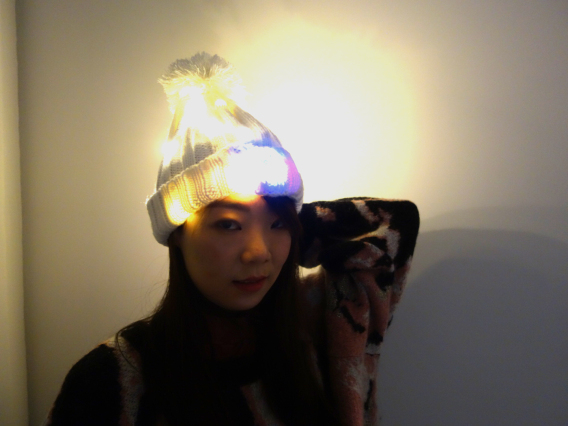
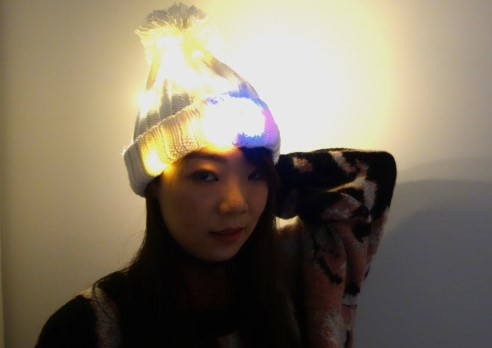
Added half of the project pages

diff --git a/src/assets/style2.css b/src/assets/style2.css
@@ -23,7 +23,7 @@
   left: 0;
   width: 100%;
   height: 100%;
-  background-color: rgba(128, 128, 128, 0.35);
+  background-color: rgba(100, 100, 100, 0.45);
 }
 
 img.img_medium {
@@ -185,64 +185,6 @@ h2 {
   position: absolute;
   z-index: 2;
   bottom: 3em;
-}
-
-/*------------Loader------------*/
-.loader-wrapper {
-  width: 100%;
-  height: 100%;
-  position: absolute;
-  top: 0;
-  left: 0;
-  background-color: black;
-  display: flex;
-  justify-content: center;
-  align-items: center;
-}
-#loader {
-  /* Uncomment this to make it run! */
-
-  /*      animation: loader 5s linear infinite;  */
-
-  position: absolute;
-  top: calc(50% - 20px);
-  left: calc(50% - 20px);
-}
-@keyframes loader {
-  0% {
-    left: -100px;
-  }
-  100% {
-    left: 110%;
-  }
-}
-#box {
-  width: 50px;
-  height: 50px;
-  background: #fff;
-  animation: animate 0.5s linear infinite;
-  position: absolute;
-  top: 0;
-  left: 0;
-  border-radius: 3px;
-}
-@keyframes animate {
-  17% {
-    border-bottom-right-radius: 3px;
-  }
-  25% {
-    transform: translateY(9px) rotate(22.5deg);
-  }
-  50% {
-    transform: translateY(18px) scale(1, 0.9) rotate(45deg);
-    border-bottom-right-radius: 40px;
-  }
-  75% {
-    transform: translateY(9px) rotate(67.5deg);
-  }
-  100% {
-    transform: translateY(0) rotate(90deg);
-  }
 }
 
 /*------------For mobile phones------------*/

diff --git a/src/App.js b/src/App.js
@@ -7,6 +7,13 @@ import Landing from "./components/landing";
 import Portfolio from "./components/portfolio";
 import About from "./components/about";
 import Rabbot from "./components/rabbot";
+import Vpia from "./components/vpia";
+import Dreamworld from "./components/dreamworld";
+import Maidenpink from "./components/maidenpink";
+import Thehats from "./components/thehats";
+import Sleepers from "./components/sleepers";
+import Moongaze from "./components/moongaze";
+import Lovemeloveyou from "./components/lovemeloveyou";
 import { AnimatePresence } from "framer-motion";
 import { Route, Switch, useLocation } from "react-router-dom";
 
@@ -19,6 +26,13 @@ function App() {
         <Route path="/portfolio" component={Portfolio} />
         <Route path="/about" component={About} />
         <Route path="/rabbot" component={Rabbot} />
+        <Route path="/vpia" component={Vpia} />
+        <Route path="/dreamworld" component={Dreamworld} />
+        <Route path="/maidenpink" component={Maidenpink} />
+        <Route path="/thehats" component={Thehats} />
+        <Route path="/sleepers" component={Sleepers} />
+        <Route path="/moongaze" component={Moongaze} />
+        <Route path="/lovemeloveyou" component={Lovemeloveyou} />
       </Switch>
     </AnimatePresence>
   );

diff --git a/src/components/dreamworld.js b/src/components/dreamworld.js
@@ -1,0 +1,39 @@
+import React from "react";
+import ProjectInfo from "./projectInfo";
+import Nav from "./nav";
+import ScrollToTop from "./scrollToTop";
+import data from "../assets/projectsData.json";
+import { motion } from "framer-motion";
+
+class Dreamworld extends React.Component {
+  render() {
+    return (
+      <motion.div initial="initial" animate="animate" exit={{ opacity: 0 }}>
+        <Nav displayLogo={true} />
+        <div className="img-container">
+          <img
+            className="project-main img-fluid"
+            src="pics/projects/DreamWorld/DreamWorld_L.jpg"
+            alt="VPIA Platform"
+          />
+          <div className="img-overlay"></div>
+          <h1 className="project-title text-center text-white">
+            Dreamworld AR
+          </h1>
+          <ProjectInfo
+            year={data[2].date}
+            type={data[2].type}
+            tools={data[2].tools}
+            role={data[2].role}
+          />
+        </div>
+        <div id="content"></div>
+        <div className="col text-center pb-5">
+          <ScrollToTop />
+        </div>
+      </motion.div>
+    );
+  }
+}
+
+export default Dreamworld;

diff --git a/src/components/lovemeloveyou.js b/src/components/lovemeloveyou.js
@@ -1,0 +1,37 @@
+import React from "react";
+import ProjectInfo from "./projectInfo";
+import Nav from "./nav";
+import ScrollToTop from "./scrollToTop";
+import data from "../assets/projectsData.json";
+import { motion } from "framer-motion";
+
+class Lovemeloveyou extends React.Component {
+  render() {
+    return (
+      <motion.div initial="initial" animate="animate" exit={{ opacity: 0 }}>
+        <Nav displayLogo={true} />
+        <div className="img-container">
+          <img
+            className="project-main img-fluid"
+            src="pics/projects/LovMeLovU/LovMeLovU_L.jpg"
+            alt="VPIA Platform"
+          />
+          <div className="img-overlay"></div>
+          <h1 className="project-title text-center text-white">LovMeLovU</h1>
+          <ProjectInfo
+            year={data[6].date}
+            type={data[6].type}
+            tools={data[6].tools}
+            role={data[6].role}
+          />
+        </div>
+        <div id="content"></div>
+        <div className="col text-center pb-5">
+          <ScrollToTop />
+        </div>
+      </motion.div>
+    );
+  }
+}
+
+export default Lovemeloveyou;

diff --git a/src/components/maidenpink.js b/src/components/maidenpink.js
@@ -1,0 +1,37 @@
+import React from "react";
+import ProjectInfo from "./projectInfo";
+import Nav from "./nav";
+import ScrollToTop from "./scrollToTop";
+import data from "../assets/projectsData.json";
+import { motion } from "framer-motion";
+
+class Maidenpink extends React.Component {
+  render() {
+    return (
+      <motion.div initial="initial" animate="animate" exit={{ opacity: 0 }}>
+        <Nav displayLogo={true} />
+        <div className="img-container">
+          <img
+            className="project-main img-fluid"
+            src="pics/projects/MaidenPink/MaidenPink_L.jpg"
+            alt="VPIA Platform"
+          />
+          <div className="img-overlay"></div>
+          <h1 className="project-title text-center text-white">MaidenPink</h1>
+          <ProjectInfo
+            year={data[3].date}
+            type={data[3].type}
+            tools={data[3].tools}
+            role={data[3].role}
+          />
+        </div>
+        <div id="content"></div>
+        <div className="col text-center pb-5">
+          <ScrollToTop />
+        </div>
+      </motion.div>
+    );
+  }
+}
+
+export default Maidenpink;

diff --git a/src/components/moongaze.js b/src/components/moongaze.js
@@ -1,0 +1,37 @@
+import React from "react";
+import ProjectInfo from "./projectInfo";
+import Nav from "./nav";
+import ScrollToTop from "./scrollToTop";
+import data from "../assets/projectsData.json";
+import { motion } from "framer-motion";
+
+class Moongaze extends React.Component {
+  render() {
+    return (
+      <motion.div initial="initial" animate="animate" exit={{ opacity: 0 }}>
+        <Nav displayLogo={true} />
+        <div className="img-container">
+          <img
+            className="project-main img-fluid"
+            src="pics/projects/MoonGaze/MoonGaze_L.jpg"
+            alt="VPIA Platform"
+          />
+          <div className="img-overlay"></div>
+          <h1 className="project-title text-center text-white">MoonGaze</h1>
+          <ProjectInfo
+            year={data[6].date}
+            type={data[6].type}
+            tools={data[6].tools}
+            role={data[6].role}
+          />
+        </div>
+        <div id="content"></div>
+        <div className="col text-center pb-5">
+          <ScrollToTop />
+        </div>
+      </motion.div>
+    );
+  }
+}
+
+export default Moongaze;

diff --git a/src/components/sleepers.js b/src/components/sleepers.js
@@ -1,0 +1,37 @@
+import React from "react";
+import ProjectInfo from "./projectInfo";
+import Nav from "./nav";
+import ScrollToTop from "./scrollToTop";
+import data from "../assets/projectsData.json";
+import { motion } from "framer-motion";
+
+class Sleepers extends React.Component {
+  render() {
+    return (
+      <motion.div initial="initial" animate="animate" exit={{ opacity: 0 }}>
+        <Nav displayLogo={true} />
+        <div className="img-container">
+          <img
+            className="project-main img-fluid"
+            src="pics/projects/Sleepers/Sleepers_L.jpg"
+            alt="VPIA Platform"
+          />
+          <div className="img-overlay"></div>
+          <h1 className="project-title text-center text-white">Sleepers</h1>
+          <ProjectInfo
+            year={data[5].date}
+            type={data[5].type}
+            tools={data[5].tools}
+            role={data[5].role}
+          />
+        </div>
+        <div id="content"></div>
+        <div className="col text-center pb-5">
+          <ScrollToTop />
+        </div>
+      </motion.div>
+    );
+  }
+}
+
+export default Sleepers;

diff --git a/src/components/thehats.js b/src/components/thehats.js
@@ -1,0 +1,37 @@
+import React from "react";
+import ProjectInfo from "./projectInfo";
+import Nav from "./nav";
+import ScrollToTop from "./scrollToTop";
+import data from "../assets/projectsData.json";
+import { motion } from "framer-motion";
+
+class Thehats extends React.Component {
+  render() {
+    return (
+      <motion.div initial="initial" animate="animate" exit={{ opacity: 0 }}>
+        <Nav displayLogo={true} />
+        <div className="img-container">
+          <img
+            className="project-main img-fluid"
+            src="pics/projects/TheHats/TheHats_L.jpg"
+            alt="VPIA Platform"
+          />
+          <div className="img-overlay"></div>
+          <h1 className="project-title text-center text-white">The hats</h1>
+          <ProjectInfo
+            year={data[4].date}
+            type={data[4].type}
+            tools={data[4].tools}
+            role={data[4].role}
+          />
+        </div>
+        <div id="content"></div>
+        <div className="col text-center pb-5">
+          <ScrollToTop />
+        </div>
+      </motion.div>
+    );
+  }
+}
+
+export default Thehats;

diff --git a/src/components/vpia.js b/src/components/vpia.js
@@ -1,0 +1,37 @@
+import React from "react";
+import ProjectInfo from "./projectInfo";
+import Nav from "./nav";
+import ScrollToTop from "./scrollToTop";
+import data from "../assets/projectsData.json";
+import { motion } from "framer-motion";
+
+class Vpia extends React.Component {
+  render() {
+    return (
+      <motion.div initial="initial" animate="animate" exit={{ opacity: 0 }}>
+        <Nav displayLogo={true} />
+        <div className="img-container">
+          <img
+            className="project-main img-fluid"
+            src="pics/projects/VPIA/VPIA_L.jpg"
+            alt="VPIA Platform"
+          />
+          <div className="img-overlay"></div>
+          <h1 className="project-title text-center text-white">VPIA</h1>
+          <ProjectInfo
+            year={data[1].date}
+            type={data[1].type}
+            tools={data[1].tools}
+            role={data[1].role}
+          />
+        </div>
+        <div id="content"></div>
+        <div className="col text-center pb-5">
+          <ScrollToTop />
+        </div>
+      </motion.div>
+    );
+  }
+}
+
+export default Vpia;
